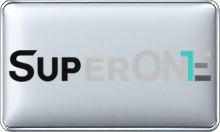
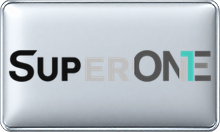
Repair five more BLACK/WHITE wordmarks

Changed region(s): [[0.6, 0.3636, 0.8182, 0.6364], [0.8727, 0.3636, 0.9818, 0.4545]]

diff --git a/reports/black-white-qc-2026-10-09/batch-005/checkpoint.md b/reports/black-white-qc-2026-10-09/batch-005/checkpoint.md
@@ -1,0 +1,9 @@
+# BLACK/WHITE QC batch 005
+
+- Remote baseline: batch 004 commit `80a50236df258f83f28c1d0d53d8aabf109ff96d`.
+- Reviewed and repaired 5 variants: 1 BLACK and 4 WHITE.
+- Epic Drama emblem and DRAMA line were brightened; DRAMA antialiased coverage was smoothly increased 3× (capped at 255) in the temporary render mask because its original opacity made it unreadable on BLACK. The EPIC plaque and letters remain unchanged.
+- SuperOne correction is confined to O/N/final E of ONE. SUPER and the turquoise accent remain unchanged.
+- Rendering used the pinned renderer and MASTER files. Transparent sources and MASTERs were not written. The output alpha changes only for Epic Drama's DRAMA glyph; other geometries/alpha are unchanged.
+- See exact before/after and SHA256 audit in this directory.
+- Last processed: `0.8w/digitv/white/1_0_1_DE8_C_1_E080000_0_0_0`; next: next visually flagged candidate.
